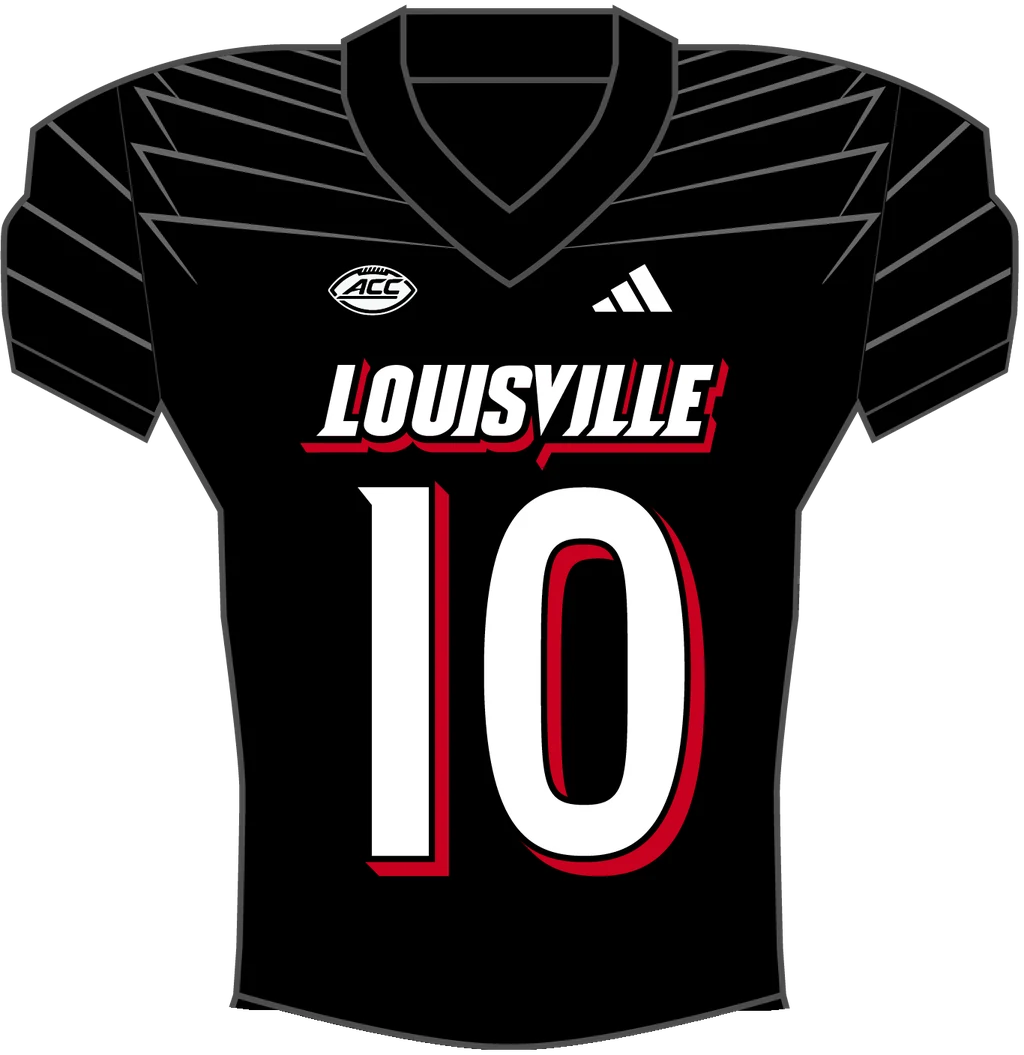
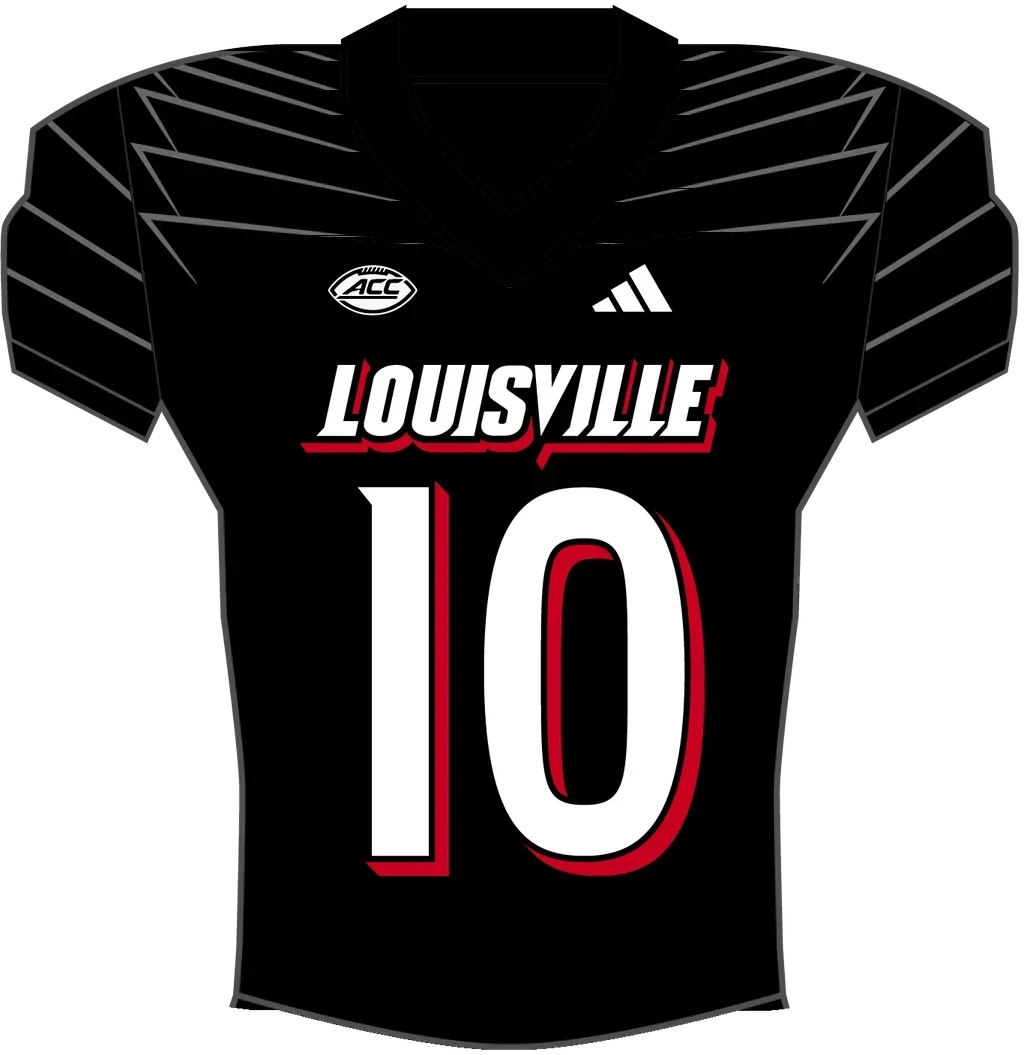
2024 black jersey: black collar
Doc: "2024 black jersey, the collar is black". The design outlined the
V-neck collar in dark gray and the 3D player piped the neckline in the
sampled silver trim. tools/black_collar.py paints the collar's outlines
black (the lighter wing streaks keep their silver), and the jersey's trim is
now black, set through COLLAR in prepare-uniforms.py.

Claude-Session: https://claude.ai/code/session_01Cn7A5wwhiT3dYtk1tYmEhf

diff --git a/src/combo.js b/src/combo.js
@@ -74,7 +74,7 @@ export function groupHex(group) {
 // Art image for a piece, as the panel and the graphic show it. ART_VERSION
 // changes whenever the art is redrawn, so browsers fetch the new pictures
 // instead of showing ones they cached.
-const ART_VERSION = '2026-10-05e';
+const ART_VERSION = '2026-10-06a';
 export const art = (file) => `assets/uni/${file}.webp?v=${ART_VERSION}`;
 
 export function artUrl(kind, id, state) {

diff --git a/src/uniform-art.js b/src/uniform-art.js
@@ -388,7 +388,7 @@ export const ART = {
   },
   "jersey-black-wing": {
    "base": "#000000",
-   "trim": "#8A8D8F",
+   "trim": "#000000",
    "number": {
     "box": [
      479,

diff --git a/tools/black_collar.py b/tools/black_collar.py
@@ -1,0 +1,65 @@
+#!/usr/bin/env python3
+"""Make the 2024 black jersey's collar all black.
+
+The design outlines the black jersey's V-neck collar in dark gray, and the
+3D player pipes the neckline in the sampled silver trim. Doc (2026-10-06):
+"2024 black jersey, the collar is black". This paints the collar's gray
+outlines black, leaving the silver wing streaks across the yoke as drawn;
+prepare-uniforms.py also sets the collar trim to black through COLLAR.
+
+prepare-uniforms.py calls blacken_collar() for the jerseys in COLLAR. Run
+this file directly to patch the WebP already in assets/uni/ (running it
+again changes nothing):
+
+    python3 tools/black_collar.py
+
+Needs Pillow and NumPy.
+"""
+from pathlib import Path
+
+import numpy as np
+from PIL import Image
+
+ROOT = Path(__file__).resolve().parent.parent
+# Jerseys whose collar is black, and the collar's color.
+COLLAR = {'jersey-black-wing': '#000000'}
+# In pixels of the 1024 px wide art: the rows and columns the collar spans.
+ROWS, COLS = (0, 310), (330, 700)
+
+
+def blacken_collar(img, color='#000000'):
+    """Returns a copy of `img` with the collar's gray outlines painted
+    `color`. Only neutral dark grays between the collar's outer outlines
+    change, so the lighter wing streaks keep their color."""
+    a = np.array(img.convert('RGBA'))
+    k = a.shape[1] / 1024
+    rgb = a[:, :, :3].astype(int)
+    neutral = np.ptp(rgb, axis=2) < 14
+    level = rgb.max(axis=2)
+    gray = neutral & (level > 20) & (level < 125) & (a[:, :, 3] > 128)
+    outline = neutral & (level >= 60) & (level <= 92)
+    ink = np.array([int(color[i:i + 2], 16) for i in (1, 3, 5)], dtype=np.uint8)
+    x0, x1 = round(COLS[0] * k), round(COLS[1] * k)
+    for y in range(round(ROWS[0] * k), round(ROWS[1] * k)):
+        # The collar's outlines are solid runs of darker gray (about 77) at
+        # least 4 px wide; the wing streaks are lighter (about 105).
+        g = outline[y, x0:x1]
+        run = g[:-3] & g[1:-2] & g[2:-1] & g[3:]
+        xs = np.nonzero(run)[0]
+        if not len(xs):
+            continue
+        lo, hi = x0 + xs.min(), x0 + xs.max() + 3
+        # Take in the outline's own antialiased edges too.
+        while lo > 0 and gray[y, lo - 1]:
+            lo -= 1
+        while hi < a.shape[1] - 1 and gray[y, hi + 1]:
+            hi += 1
+        a[y, lo:hi + 1, :3][gray[y, lo:hi + 1]] = ink
+    return Image.fromarray(a, 'RGBA')
+
+
+if __name__ == '__main__':
+    for name, color in COLLAR.items():
+        path = ROOT / 'assets' / 'uni' / f'{name}.webp'
+        blacken_collar(Image.open(path), color).save(path, 'WEBP', quality=88, method=6)
+        print('redrew', path.relative_to(ROOT))

diff --git a/tools/prepare-uniforms.py b/tools/prepare-uniforms.py
@@ -22,6 +22,7 @@ from PIL import Image, ImageDraw, ImageFilter
 
 sys.path.insert(0, str(Path(__file__).parent))
 from palette import BLACK, RED, WHITE, snap  # noqa: E402
+from black_collar import COLLAR, blacken_collar  # noqa: E402
 from hip_mark import MARK_PANTS, redraw_mark  # noqa: E402
 from pants_panels import STRIPES, draw_panels  # noqa: E402
 
@@ -215,9 +216,9 @@ for name in JERSEYS:
     order = np.argsort(-n)
     fill = keys[order[0]]
     outline = keys[order[1]] if len(order) > 1 else trim
-    w = save_webp(img, name, 1024)
+    w = save_webp(blacken_collar(img, COLLAR[name]) if name in COLLAR else img, name, 1024)
     spec['jersey'][name] = {
-        'base': hexof(base), 'trim': hexof(trim if trim is not None else base),
+        'base': hexof(base), 'trim': COLLAR.get(name) or hexof(trim if trim is not None else base),
         'number': {'box': [left, top, right, bottom], 'fill': hexof(fill), 'outline': hexof(outline)},
         'art': {'width': 1366, 'height': 1408},
     }
